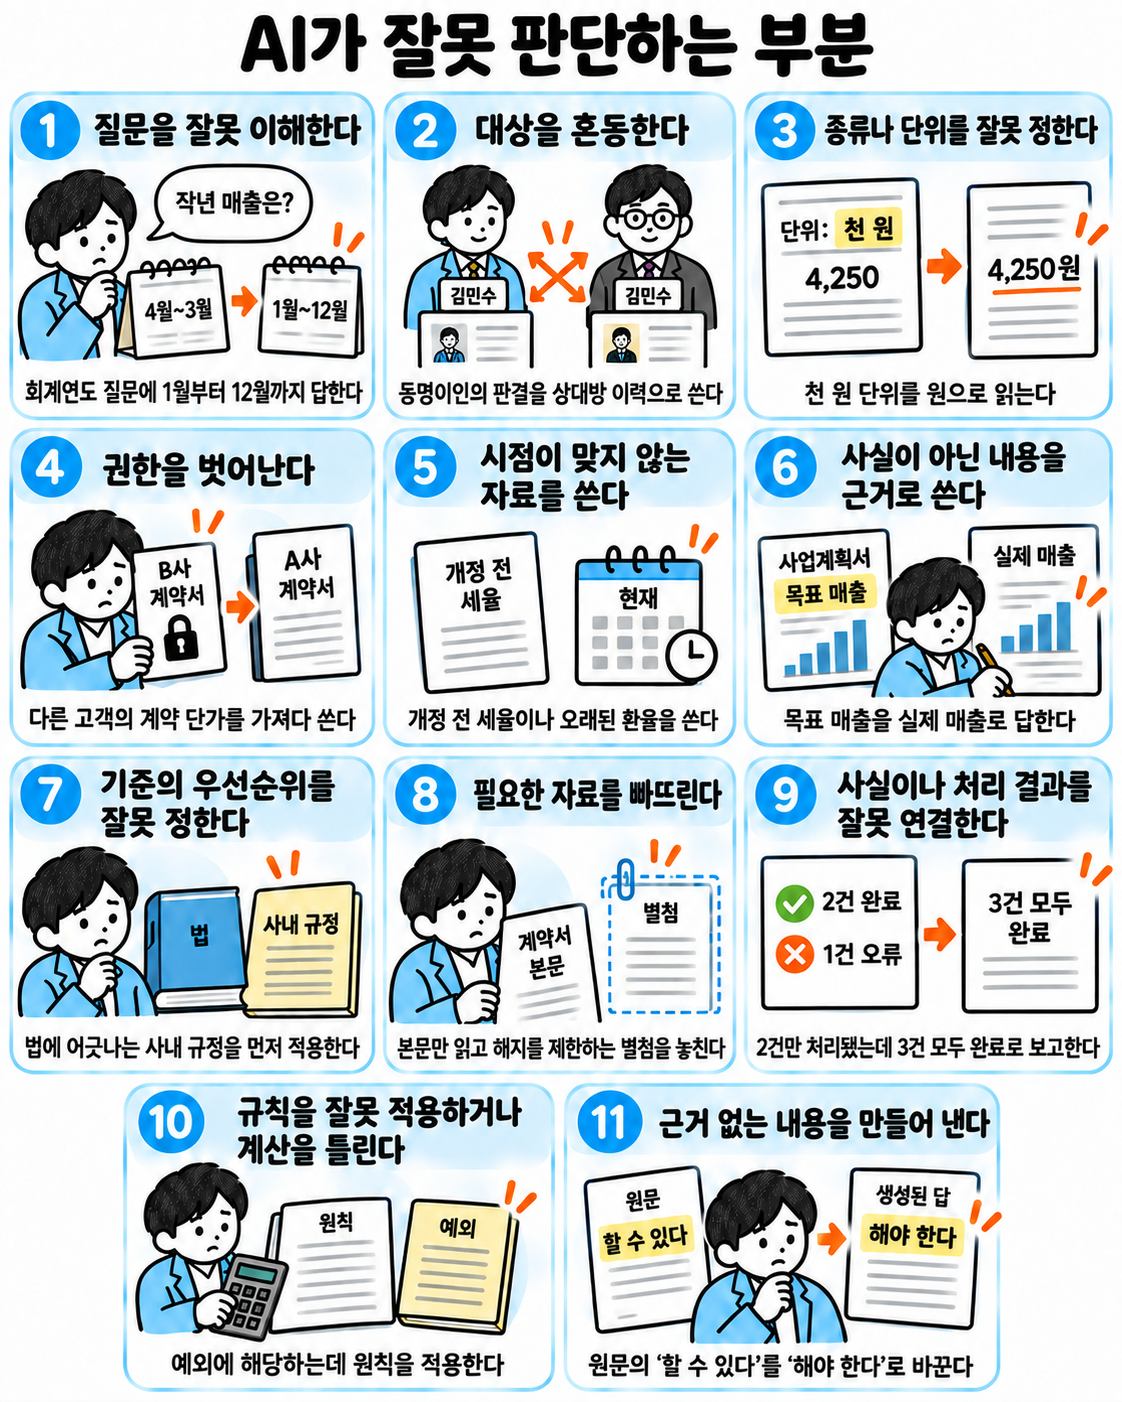
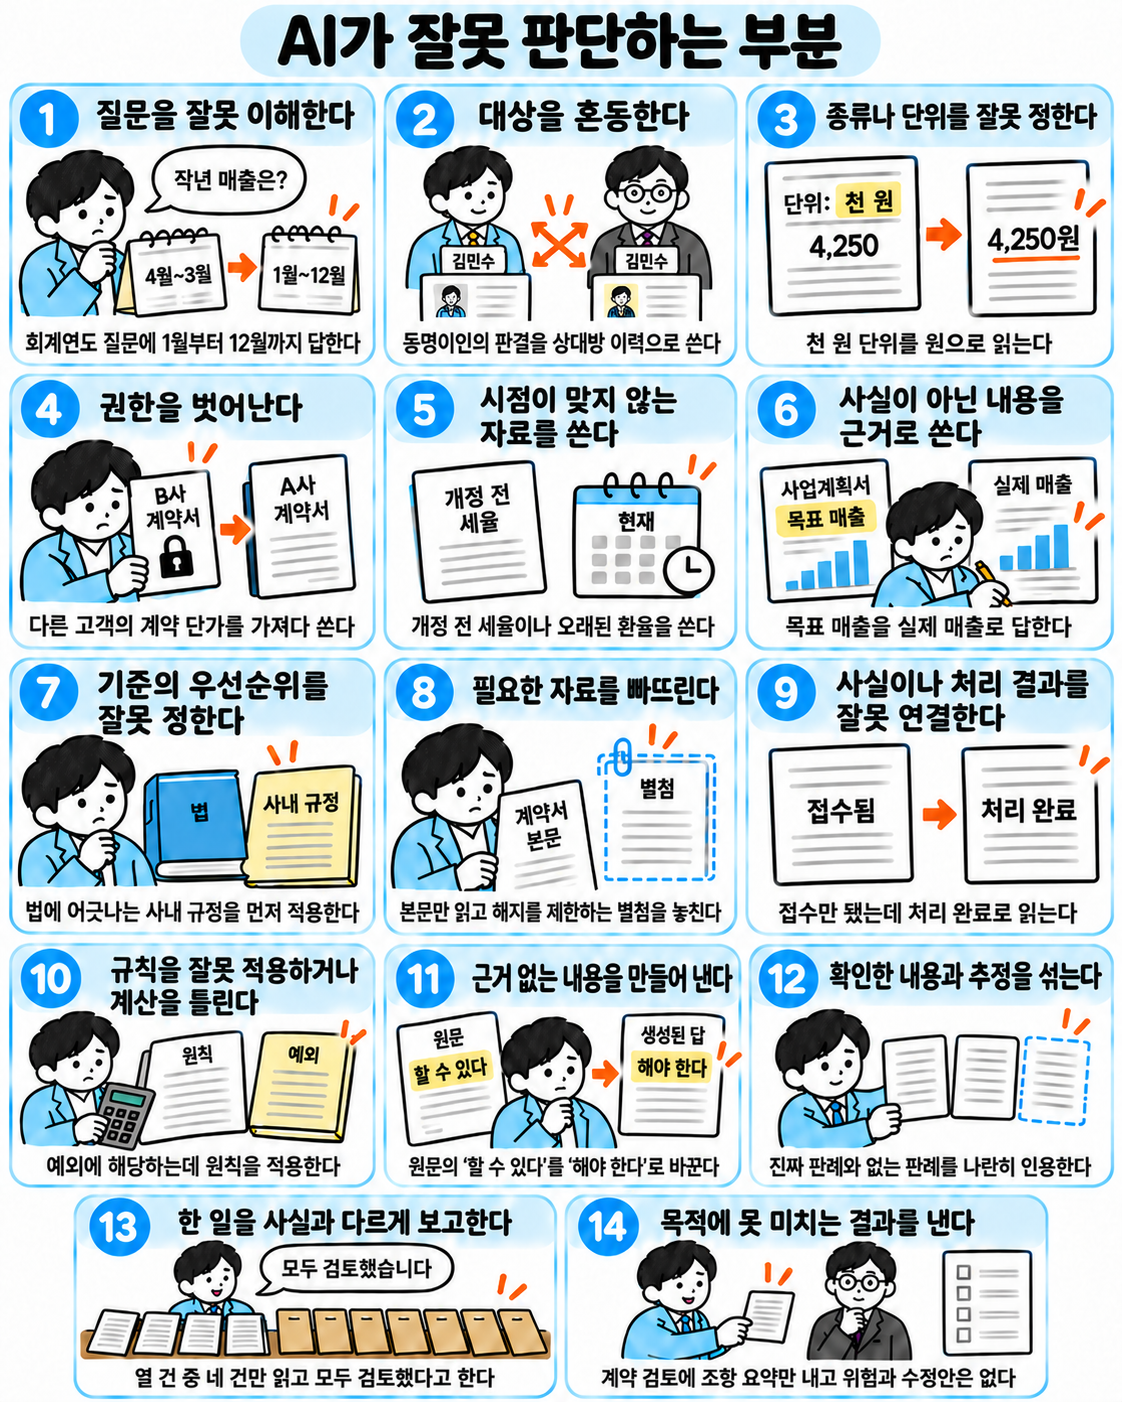
전문 판단의 신뢰성 — 거짓 보고, 고객 혼동, 품질, 남의 자료 걱정을 잘못에서 구현까지 이음
잘못 표를 열넷, 원인 표와 갖춰야 할 조건 표를 열다섯으로 늘리고,
남의 자료 출처, 보고와 실행 기록의 코드 대조, 품질 기준을 둘 자리,
고객별 보관, 인용 대조를 재료 표와 재료 설명, 사용 구조, 구성 전개식에 넣음.
그림 세 장을 표에 맞춰 다시 만들고, 진행 계획의 이 문서 요약을 고침.

diff --git a/ASSETS.md b/ASSETS.md
@@ -4,8 +4,8 @@
 |---|---|---|
 | `docs/images/expert-definition/judgment-reliability-meaning.png` | 전문가의 판단과 판단 결과의 활용을 보여 주도록 기존 그림을 내장 `image_gen`으로 편집했다. | AI 생성 이미지다. 별도 외부 에셋을 합성하지 않았다. |
 | `docs/images/expert-definition/reliable-judgment-conditions-expanded.png` | 기존 그림을 내장 `image_gen`으로 편집해 본문의 열두 가지 판단 조건을 세 줄에 배치했다. | AI 생성 이미지다. 별도 외부 에셋을 합성하지 않았다. |
-| `docs/images/expert-definition/evidence-application-judgment-v2.png` | 기존 그림을 내장 `image_gen`으로 편집해 열한 오류의 이름과 사례를 문서에 맞췄다. | 기존 프로젝트 그림을 편집했다. 별도 외부 에셋을 합성하지 않았다. |
-| `docs/images/expert-definition/judgment-error-causes-v2.png` | 기존 그림을 내장 `image_gen`으로 편집해 열두 원인의 이름과 순서를 문서에 맞췄다. | 기존 프로젝트 그림을 편집했다. 별도 외부 에셋을 합성하지 않았다. |
+| `docs/images/expert-definition/evidence-application-judgment-v2.png` | 기존 그림을 내장 `image_gen`으로 편집해 열네 오류의 이름과 사례를 문서에 맞췄다. | 기존 프로젝트 그림을 편집했다. 별도 외부 에셋을 합성하지 않았다. |
+| `docs/images/expert-definition/judgment-error-causes-v2.png` | 기존 그림을 내장 `image_gen`으로 편집해 열다섯 원인의 이름과 순서를 문서에 맞췄다. 14번 제목의 "증" 한 글자는 BM 도현 글꼴로 고쳐 붙였다. | 기존 프로젝트 그림을 편집했다. BM 도현 글꼴(우아한형제들, 상업적 이용 무료)로 글자 하나를 고쳤다. |
 | `docs/images/expert-definition/judgment-materials-map-v2.png` | 기존 그림을 내장 `image_gen`으로 편집해 재료 이름, 구현 기술, 순서를 문서에 맞췄다. | AI 생성 이미지다. 별도 외부 에셋을 합성하지 않았다. |
 | `docs/images/expert-definition/judgment-case-workflow.png` | 문서의 사용 구조를 바탕으로 내장 `image_gen`으로 생성했다. | AI 생성 이미지다. 별도 외부 에셋을 합성하지 않았다. |
 

diff --git a/진행-계획.md b/진행-계획.md
@@ -105,7 +105,7 @@
 | | ✅ 재료별 구상 | 9월 14일 | 재료마다 무엇을 맡고 무엇을 주고받는지, 다 됐다고 볼 기준은 무엇인지 구상함 |
 | | ✅ 사용 구조 설계 (부분) | 9월 23일 | 한 명·여럿·여러 건의 처리 순서도와 재료 호출을 정함. 경우별 시작·완료 조건, 분담·통합·인계, 금지 조합, 실패·대기·재개와 설계 확인 기준까지 연결함 |
 | | ▶ 재료별 기술 구상과 관리 체계 | 10월 8일 | 재료마다 구현 방법과 자료·코드의 저장·관리 방식을 정함 |
-| | ▶ 전문 판단의 신뢰성 | 10월 8일 | 사실 확인부터 결론·검증까지 전문 판단이 틀리지 않게 하는 방법을 재료마다 정함. 없는 근거를 지어내지 않고, 진짜 근거도 잘못 읽거나 빠뜨리거나 계산을 틀리지 않게 막음 |
+| | ▶ 전문 판단의 신뢰성 | 10월 8일 | 사실 확인부터 결론·검증까지 전문 판단이 틀리지 않게 하는 방법을 재료마다 정함. 없는 근거를 지어내지 않고, 진짜 근거도 잘못 읽거나 빠뜨리거나 계산을 틀리지 않게 막음. 하지 않은 일을 했다고 보고하거나 고객끼리 자료를 섞지 않게 하고, 결과물이 전문가 수준에 맞는지 확인함 |
 | | 바깥 대조 — 기술 | 10월 8일 | 같은 재료를 밖에서는 어떻게 만드는지 공식 기능·지원 상태·요금으로 비교함. |
 | | 공장 설계 | 10월 23일 | 재료의 연결과 직종별 교체 자리를 정하고, 특화 입력부터 조립·누락 검사·시험·배포·변경 반영까지 생산 절차를 설계함 |
 | | 바깥 대조 | 10월 23일 | 여러 직종을 찍어내는 밖의 생산 절차를 조사해 우리 공장 설계와 견줌 |
